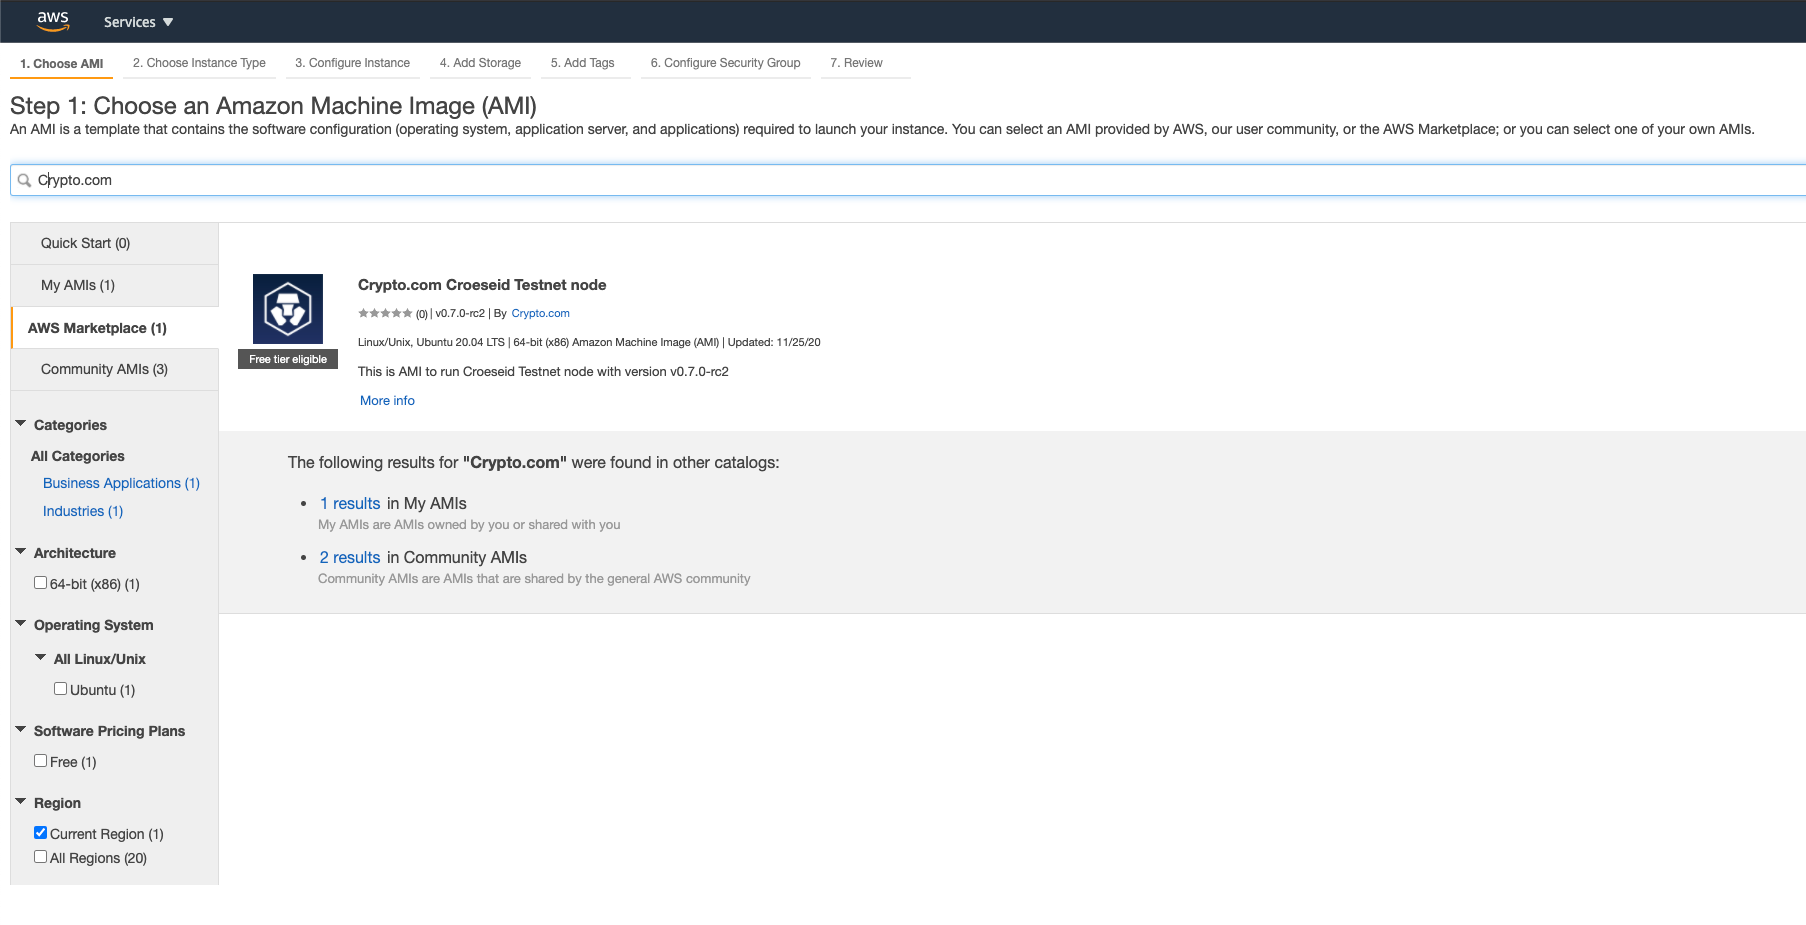
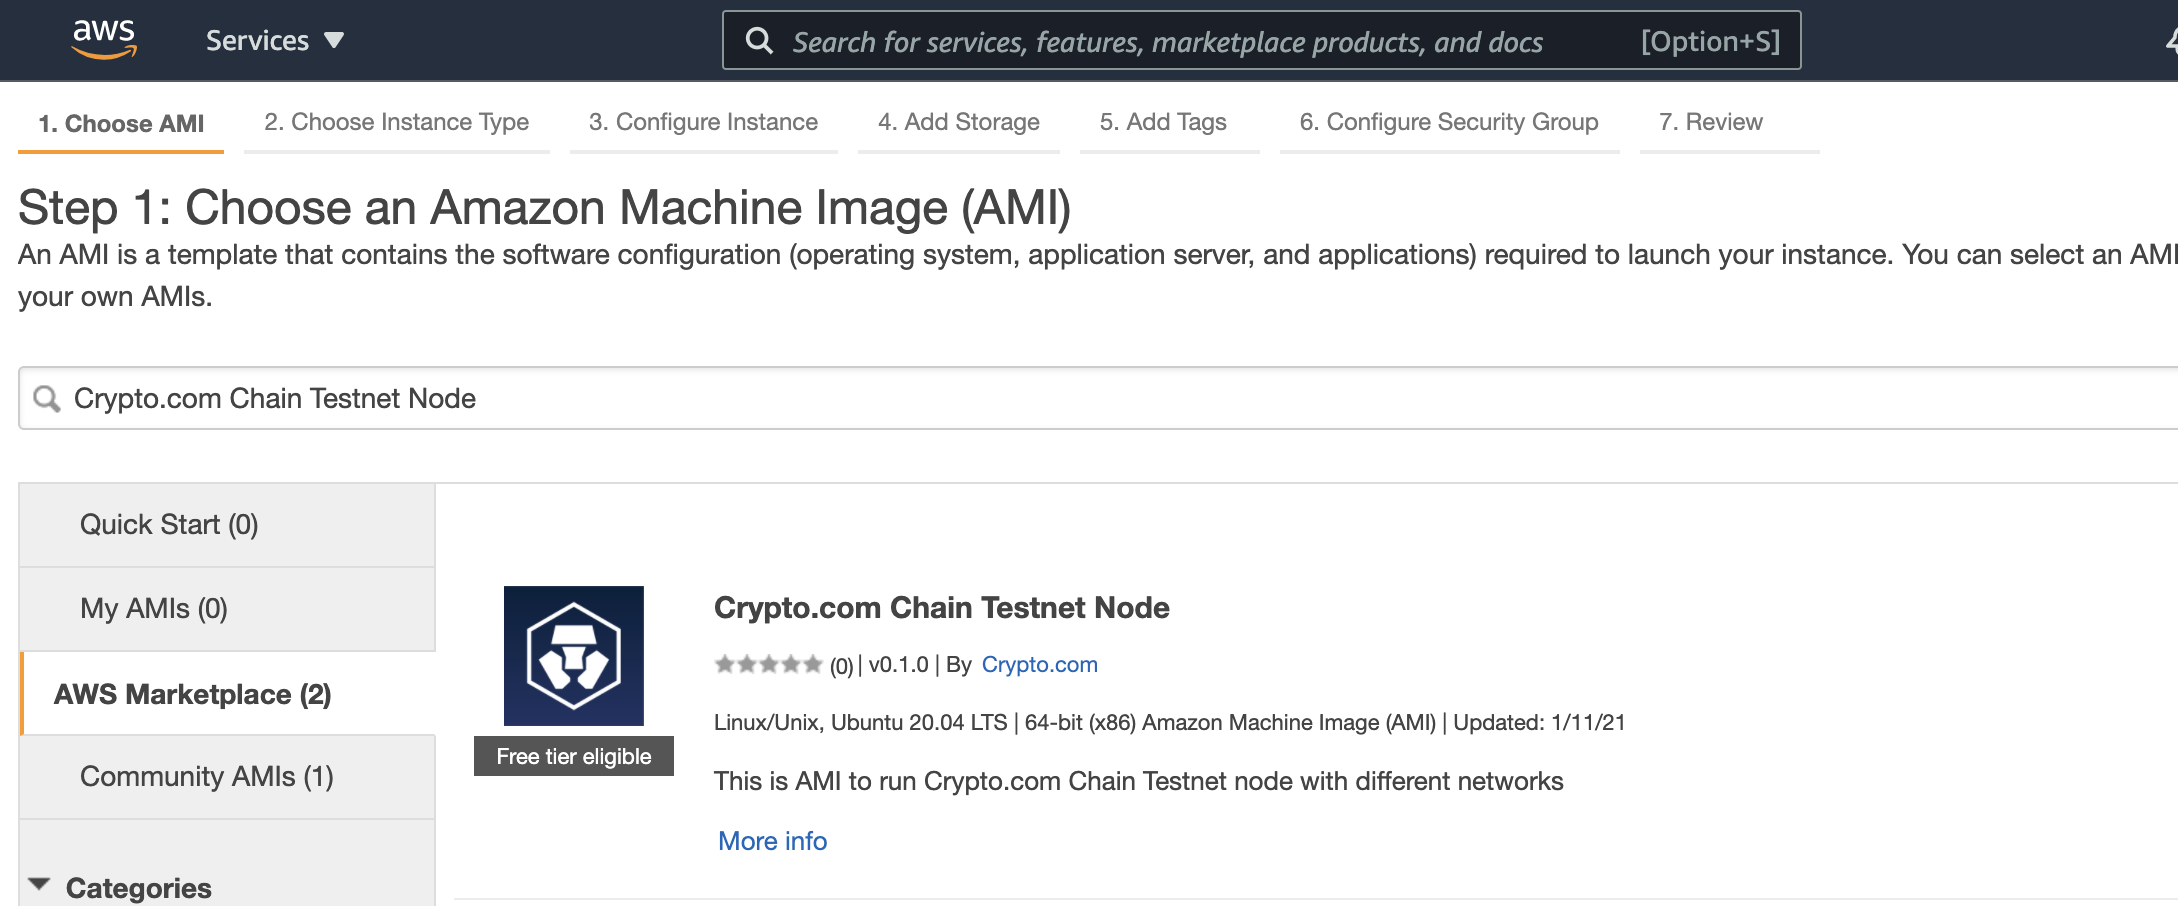
Problem: (fix #96)AWS 1-click is not updated
Solution: update testnet-aws-1click.md and binary version

diff --git a/docs/getting-started/testnet-aws-1click.md b/docs/getting-started/testnet-aws-1click.md
@@ -2,13 +2,6 @@
 
 This tutorial will use our AWS 1-click Deployment image to start and create the latest Croeseid Testnet validator or full node.
 
-:::warning Important:
-
-The AWS 1-click Deployment is temporarily unavailable.
-
-If you have a node started earlier with the version v.0.7.\* (testnet-croeseid-1), kindly follow this [instructions](https://github.com/crypto-com/testnets/tree/main/testnet-croeseid-2/1-click-reconfig) and upgrade to v.0.8 (testnet-croeseid-2) with the new configuration script.
-
-:::
 
 ## Step 1. AWS Account Creation
 
@@ -24,7 +17,7 @@ Sign in to your AWS account and go to EC2 Dashboard and change to your favourite
 
 ### Step 2-1. Search for Crypto.com on AWS Marketplace
 Search for "Crypto.com" in **Choose an Amazon Machine Image (AMI)** section.
-Select "Crypto.com Croeseid Testnet node" from search results.
+Select "Crypto.com Chain Testnet Node" from search results.
 ![](./assets/aws_marketplace.png)
 
 ### Step 2-2. Choose an instance type
@@ -74,46 +67,57 @@ Afterwards, go to the `chain` directory, and you will find all the essential bin
 ```bash
 $ cd /chain/
 $ ll
-total 44
-drwxr-xr-x  8 root   root   4096 Nov 23 14:11 ./
-drwxr-xr-x 24 root   root   4096 Nov 27 03:30 ../
-drwxr-xr-x  4 crypto crypto 4096 Nov 23 14:11 .chain-maind/
-drwxr-xr-x  5 crypto crypto 4096 Nov 23 14:10 .tmkms/
-drwxr-xr-x  2 crypto crypto 4096 Nov 23 14:12 bin/
--rwxr-xr-x  1 crypto crypto  316 Nov 23 14:03 cleanForAMI.sh*
+total 48
+drwxr-xr-x  8 crypto crypto 4096 Dec 30 13:06 ./
+drwxr-xr-x 20 root   root   4096 Jan 12 02:59 ../
+drwxr-xr-x  4 crypto crypto 4096 Dec 28 03:46 .chain-maind/
+drwxr-xr-x  5 crypto crypto 4096 Dec 28 03:45 .tmkms/
+drwxr-xr-x  2 crypto crypto 4096 Dec 28 03:47 bin/
+-rwxr-xr-x  1 crypto crypto  316 Dec 28 03:35 cleanForAMI.sh*
 drwxr-xr-x  2   3434   3434 4096 Jun  4  2019 node_exporter-0.18.1.linux-amd64/
--rwxr-xr-x  1 crypto crypto 5858 Nov 23 14:03 reconfig.sh*
-drwxr-xr-x  2 root   root   4096 Nov 23 14:03 release_binary/
-drwxr-xr-x  2 crypto crypto 4096 Nov 23 14:09 sockets/
+-rwxr-xr-x  1 crypto crypto 8891 Dec 30 13:06 reconfig.sh*
+drwxr-xr-x  2 root   root   4096 Dec 28 03:34 release_binary/
+drwxr-xr-x  2 crypto crypto 4096 Dec 28 03:44 sockets/
 ```
 
 
 ## Step 3. Running a full node
+
 ### Step 3-1. Use the reconfiguration script
-Now we use the reconfiguration script `reconfig.sh` to clean up the old data (if any) and obtain a fresh consensus public key, which is necessary for running a validator.
+
+Now we use the reconfiguration script `reconfig.sh` to choose the existing networks to join.
+
 ```bash
 $ sudo -u crypto ./reconfig.sh
-....
-....
+
+You can select the following networks to join
+	0. testnet-croeseid-2
+Please choose the network to join by index (0/1/...): 0
+```
+
+Clean up the old blockchain data (if any)
+```bash
+...
+The selected network is testnet-croeseid-2
 Reset chain-maind and remove data if any
-❗ Enter (Y/N) to confirm delete old data: y
+❗ Enter (Y/N) to confirm to delete any old data: Y
 Stopping chain-maind tmkms service
-Removed all blockchain history               module=main dir=/chain/.chain-maind/data
+INF Removed all blockchain history dir=/chain/.chain-maind/data
 ```
 
 To join the network as a validator, the consensus public key is required. The consensus public key will be printed after generating tmkms signing key.
 
 ```bash
-Generated private validator file             module=main keyFile=/chain/.chain-maind/config/priv_validator_key.json stateFile=/chain/.chain-maind/data/priv_validator_state.json
+...
+🧹 Remove old tmkms state
 🔄 Regenerate tmkms consensus-ed25519 key 🔑
    Generated consensus (Ed25519) private key at: /chain/.tmkms/secrets/consensus-ed25519.key
 🔄 Regenerate tmkms validator secret key 🔑
+Restart tmkms service
 🕑 Waiting for tmkms to run
-
 ✅ Please keep consensus public key for node join if it is validator or find it again in /chain/log/tmkms/tmkms.log. It will show again when restart tmkms in log
 
-Consensus public key for node join: tcrocnclconspubXXXXXXXXXXXXXXXXXXXXXXXXXXXXXXXXXXXXXXXXXXXXXXXXXXXXXXXXXXXXXXXXXXX
-
+Consensus public key for node join: tcrocnclconspub1XXXXXXXXXXXXXXXXXXXXXXXXXXXXXXXXXXXXXXXXXXXXXXXXXXXXXXXXXXXXXXXXXX
 ```
 
 The script will also ask you to fill in the `moniker` value which is a human readable display name for tendermint p2p.
@@ -127,11 +131,13 @@ moniker: YOUR_MONIKER_NAME
 
 You may also enable [STATE-SYNC](https://docs.tendermint.com/master/tendermint-core/state-sync.html) to speed up the block syncing process.
 _p2p gossip_ will allow you to connect with more nodes (data sources).
+
 ```bash
 Do you want to enable state-sync? (Y/N): y
 Do you want to add the public IP of this node for p2p gossip? (Y/N): y
 ✅ Added public IP to external_address in chain-maind config.toml for p2p gossip
 ```
+
 _node_id_ and _node_key_ are the unique identity of your node. Save them for later use.
 
 ```
@@ -143,40 +149,61 @@ node_id: 62cf74XXXXXXXXXXXXXXXXXXXXXXXXXXXXXXXXXX
 
 node_key: LyQiGlL4HsdHsPXXXXXXXXXXXXXXXXXXXXXXXXXXXXXXXXXXXXXXXXXXXXXXXXXXXXXXXXXXXXXXXXXXXXXXXXXX
 ```
-`chain-maind` is now running at the background. 
+
+`chain-maind` is now running at the background as a systemd service.
 
 You can check its log by the command `journalctl`, for example:
 
 ```bash
 $ journalctl -u chain-maind.service -f
--- Logs begin at Mon 2020-11-23 13:21:03 UTC. --
-Nov 25 09:27:41 crypto-chain-test-node chain-maind[3209]: I[2020-11-25|09:27:41.854] Executed block                               module=state height=545512 validTxs=0 invalidTxs=0
-Nov 25 09:27:41 crypto-chain-test-node chain-maind[3209]: I[2020-11-25|09:27:41.866] Committed state                              module=state height=545512 txs=0 appHash=B989A1B3E225A6BCBB4D61072E83A9EB3F9C480CE8CFDBCC4B3469620D314F99
-Nov 25 09:27:48 crypto-chain-test-node chain-maind[3209]: I[2020-11-25|09:27:48.271] Executed block                               module=state height=545513 validTxs=1 invalidTxs=0
-Nov 25 09:27:48 crypto-chain-test-node chain-maind[3209]: I[2020-11-25|09:27:48.287] Committed state                              module=state height=545513 txs=1 appHash=D55A839445CD58DD8EAD27D8FA87ACAF88695BE47CDE4FFCD456421EB7800775
+-- Logs begin at Wed 2020-12-30 13:51:25 UTC. --
+Jan 04 03:53:14 chain-testnet-node chain-maind[9078]: 3:53AM INF Block{
+Jan 04 03:53:14 chain-testnet-node chain-maind[9078]:   Header{
+Jan 04 03:53:14 chain-testnet-node chain-maind[9078]:     Version:        {11 0}
+Jan 04 03:53:14 chain-testnet-node chain-maind[9078]:     ChainID:        testnet-croeseid-2
+Jan 04 03:53:14 chain-testnet-node chain-maind[9078]:     Height:         168760
+Jan 04 03:53:14 chain-testnet-node chain-maind[9078]:     Time:           2021-01-04 03:52:59.280795943 +0000 UTC
+Jan 04 03:53:14 chain-testnet-node chain-maind[9078]:     LastBlockID:    F41E759C17AE83DE912E772187C3E40D0D4FC381CF4284D5E19D848698C9C9A4:1:02AB71C44B20
+Jan 04 03:53:14 chain-testnet-node chain-maind[9078]:     LastCommit:     065567AFC39DD6C88A9D8392BA8F33116504191F49FF897658B80B01499609F0
+Jan 04 03:53:14 chain-testnet-node chain-maind[9078]:     Data:           F69577E54A82341E32ED89894501377088DC694A49C39FF98521089E812ACFAF
+Jan 04 03:53:14 chain-testnet-node chain-maind[9078]:     Validators:     9D26665EC32458CCA3A9105C298506C9D54760EEA5F1F97B2E34C4260D8079D3
+Jan 04 03:53:14 chain-testnet-node chain-maind[9078]:     NextValidators: 9D26665EC32458CCA3A9105C298506C9D54760EEA5F1F97B2E34C4260D8079D3
+Jan 04 03:53:14 chain-testnet-node chain-maind[9078]:     App:            4C43CC41D2BD48FA42CA910D63D67D57AD819B0939AA36A54EAB352BEEF7783F
+Jan 04 03:53:14 chain-testnet-node chain-maind[9078]:     Consensus:      048091BC7DDC283F77BFBF91D73C44DA58C3DF8A9CBC867405D8B7F3DAADA22F
+Jan 04 03:53:14 chain-testnet-node chain-maind[9078]:     Results:        D32D3457E1FB8E3C773B7444D19905CFEB74B7C04CBC717B5D2C0D89B4613D36
+Jan 04 03:53:14 chain-testnet-node chain-maind[9078]:     Evidence:       E3B0C44298FC1C149AFBF4C8996FB92427AE41E4649B934CA495991B7852B855
+Jan 04 03:53:14 chain-testnet-node chain-maind[9078]:     Proposer:       703B26AEA0867B03572719D22F4B8E6D93CA838C
+Jan 04 03:53:14 chain-testnet-node chain-maind[9078]:   }#9D6BA3E0D546EB9528822100ECF53B03B7258A757EA84982F5B08304E84E2954
+Jan 04 03:53:14 chain-testnet-node chain-maind[9078]:   Data{
+Jan 04 03:53:14 chain-testnet-node chain-maind[9078]:     A5C13EBB579079788A095C0CE4261B54F050D312BE043DCC1DE67E9DA9758C5C (329 bytes)
 ...
 ```
 
 The latest block height can be found by:
+
 ```bash
 $ curl -s https://testnet-croeseid.crypto.com:26657/block | jq -r .result.block.header.height
-569328
+168783
 ```
+
 Once the tendermint syncs to the latest block, the setup is done! You may move on to the next step if you want to join the network as a validator.
 
 ## Step 4. Join as a validator
+
 We suggest that you should do this process locally with `chain-maind` to avoid exposing your keys on a cloud server.
 If you haven't installed `chain-maind` yet, please follow [Step 1. Get the Crypto.com Chain binary](./croeseid-testnet.html#step-1-get-the-crypto-com-chain-binary).
 :::tip NOTE
 
-- Check whether your chain-maind is the testnet binary (end with `-rc2`)
+- Check whether your chain-maind is the testnet binary
+
 ```bash
 $ chain-maind version
-0.7.0-rc2
+0.8.0-croeseid
 ```
+
 - Testnet binary for
-[Mac](https://github.com/crypto-com/chain-main/releases/download/v0.7.0-rc2/chain-main_0.7.0-rc2_Darwin_x86_64.tar.gz) and [Windows](https://github.com/crypto-com/chain-main/releases/download/v0.7.0-rc2/chain-main_0.7.0-rc2_Windows_x86_64.zip) are also available.
-:::
+  [Mac](https://github.com/crypto-com/chain-main/releases/download/v0.8.0-croeseid/chain-main_0.8.0-croeseid_Darwin_x86_64.tar.gz) and [Windows](https://github.com/crypto-com/chain-main/releases/download/v0.8.0-croeseid/chain-main_0.8.0-croeseid_Windows_x86_64.zip) are also available.
+  :::
 
 ### Step 4-1. Create a new key and address
 
@@ -191,10 +218,11 @@ You should obtain an address with `tcro` prefix, e.g. `tcro1quw5r22pxy8znjtdkgqc
 ### Step 4-2. Obtain test token
 
 Unless you have obtained the CRO testnet token before, use the [CRO faucet](https://chain.crypto.com/faucet) to obtain test CRO tokens.
-In case you have reached the daily limit on faucet airdrop, you can simply send a message on [Gitter](https://gitter.im/crypto-com/community),
-stating who you are and your `tcro.....` address (@devashishdxt or @lezzokafka would typically reply within a day).
+In case you have reached the daily limit on faucet airdrop, you can simply send a message on [Discord](https://discord.gg/pahqHz26q4),
+stating who you are and your `tcro.....` address.
 
 ### Step 4-3. Running a validator node
+
 ```bash
 $ chain-maind tx staking create-validator \
 --from=[name_of_your_key] \
@@ -207,8 +235,8 @@ $ chain-maind tx staking create-validator \
 --commission-max-rate="0.20" \
 --gas 800000 \
 --commission-max-change-rate="0.01" \
---gas auto \
---gas-adjustment=1.5\
+--min-self-delegation="1" \
+--gas-prices 0.1basetcro \
 --node https://testnet-croeseid.crypto.com:26657
 
 ## Transactions payload##
@@ -216,6 +244,7 @@ $ chain-maind tx staking create-validator \
 confirm transaction before signing and broadcasting [y/N]: y
[1 lines of base64/hex data omitted]
 ```
+
 You will be required to insert the following:
 
 - `--from`: The `trco...` address or name of your key in [Step 4-1](#step-4-join-as-a-validator) that holds your funds;
@@ -224,11 +253,27 @@ You will be required to insert the following:
 - `--security-contact`: Security contact email/contact method.
 
 ### Step 4-4. Check if the validator has been set
+
 Now you can check if your validator has been added to the validator set:
 
 ```bash
-$ chain-maind query tendermint-validator-set --node https://testnet-croeseid.crypto.com:26657 | grep -c [tcrocnclconspub...]
+# change tcrocnclconspub1.... to what you got from the Step 3-1
+$ TM_PUBKEY=$(chain-maind debug pubkey tcrocnclconspub1zcjduepq8g83jlgycutqfsgc8e42x23ex6wgjzy5t46zl94ey0kunxm9zwcsuzkxpr 2>&1 \
+| grep "tendermint/PubKeyEd25519" \
+| cut -d : -f2- | jq -r .value)
+$ chain-maind query tendermint-validator-set --node https://testnet-croeseid.crypto.com:26657 | grep -c $TM_PUBKEY
 ## 1 = Yes; 0 = Not yet added ##
 ```
 
+To further check if the validator is signing blocks, kindly run this [script](https://github.com/crypto-com/chain-docs/blob/master/docs/getting-started/assets/signature_checking/check-validator-up.sh), for example:
+
+```bash
+# change tcrocnclconspub1.... to what you got from the Step 3-1
+$ curl -sSL https://raw.githubusercontent.com/crypto-com/chain-docs/master/docs/getting-started/assets/signature_checking/check-validator-up.sh | bash -s -- \
+--tendermint-url https://testnet-croeseid.crypto.com:26657 \
+--bechpubkey tcrocnclconspub1zcjduepq8g83jlgycutqfsgc8e42x23ex6wgjzy5t46zl94ey0kunxm9zwcsuzkxpr
+
+The validator is in the active validator set under the address  <YOUR_VALIDATOR_ADDRESS>
+The validator is signing @ Block#<BLOCK_HEIGHT> 👍
+```
 Congratulations! You've successfully joined the network as a validator!

diff --git a/docs/getting-started/croeseid-testnet.md b/docs/getting-started/croeseid-testnet.md
@@ -26,13 +26,13 @@ To run Crypto.com Chain nodes, you will need a machine with the following minimu
 ## Step 1. Get the Crypto.com Chain binary
 
 To simplify the following step, we will be using **Linux** for illustration. Binary for
-[Mac](https://github.com/crypto-com/chain-main/releases/download/v0.8.0-rc1/chain-main_0.8.0-rc1_Darwin_x86_64.tar.gz) and [Windows](https://github.com/crypto-com/chain-main/releases/download/v0.8.0-rc1/chain-main_0.8.0-rc1_Windows_x86_64.zip) are also available.
+[Mac](https://github.com/crypto-com/chain-main/releases/download/v0.8.0-croeseid/chain-main_0.8.0-croeseid_Darwin_x86_64.tar.gz) and [Windows](https://github.com/crypto-com/chain-main/releases/download/v0.8.0-croeseid/chain-main_0.8.0-croeseid_Windows_x86_64.zip) are also available.
 
 - To install Crypto.com Chain released binaries from github:
 
   ```bash
-  $ curl -LOJ https://github.com/crypto-com/chain-main/releases/download/v0.8.0-rc1/chain-main_0.8.0-rc1_Linux_x86_64.tar.gz
-  $ tar -zxvf chain-main_0.8.0-rc1_Linux_x86_64.tar.gz
+  $ curl -LOJ https://github.com/crypto-com/chain-main/releases/download/v0.8.0-croeseid/chain-main_0.8.0-croeseid_Linux_x86_64.tar.gz
+  $ tar -zxvf chain-main_0.8.0-croeseid_Linux_x86_64.tar.gz
   ```
 
   OR

diff --git a/docs/getting-started/testnet-azure-1click.md b/docs/getting-started/testnet-azure-1click.md
@@ -201,11 +201,11 @@ If you haven't installed `chain-maind` yet, please follow [Step 1. Get the Crypt
 
 ```bash
 $ chain-maind version
-0.8.0-rc1
+0.8.0-croeseid
 ```
 
 - Testnet binary for
-  [Mac](https://github.com/crypto-com/chain-main/releases/download/v0.8.0-rc1/chain-main_0.8.0-rc1_Darwin_x86_64.tar.gz) and [Windows](https://github.com/crypto-com/chain-main/releases/download/v0.8.0-rc1/chain-main_0.8.0-rc1_Windows_x86_64.zip) are also available.
+  [Mac](https://github.com/crypto-com/chain-main/releases/download/v0.8.0-croeseid/chain-main_0.8.0-croeseid_Darwin_x86_64.tar.gz) and [Windows](https://github.com/crypto-com/chain-main/releases/download/v0.8.0-croeseid/chain-main_0.8.0-croeseid_Windows_x86_64.zip) are also available.
   :::
 
 ### Step 4-1. Create a new key and address
